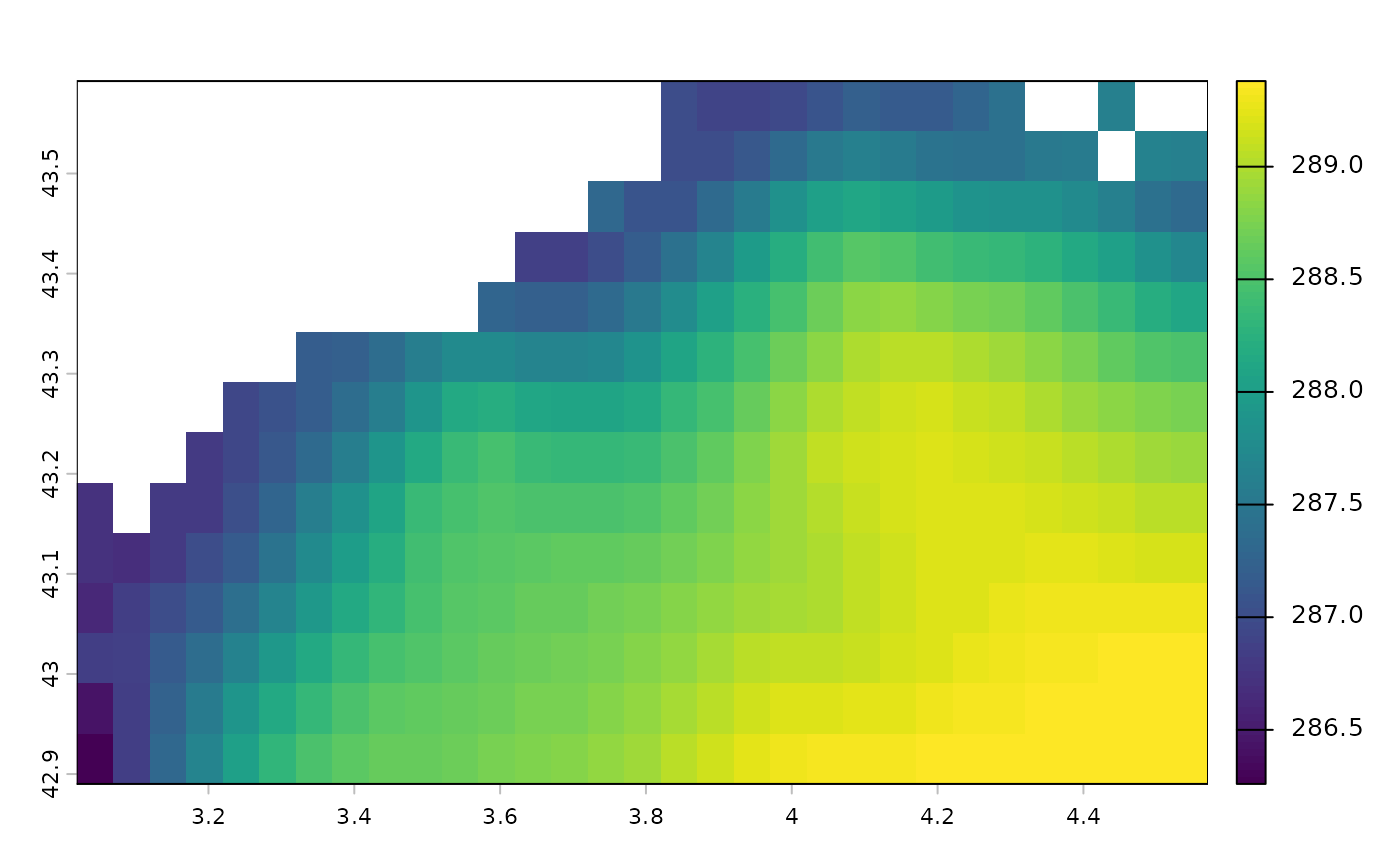
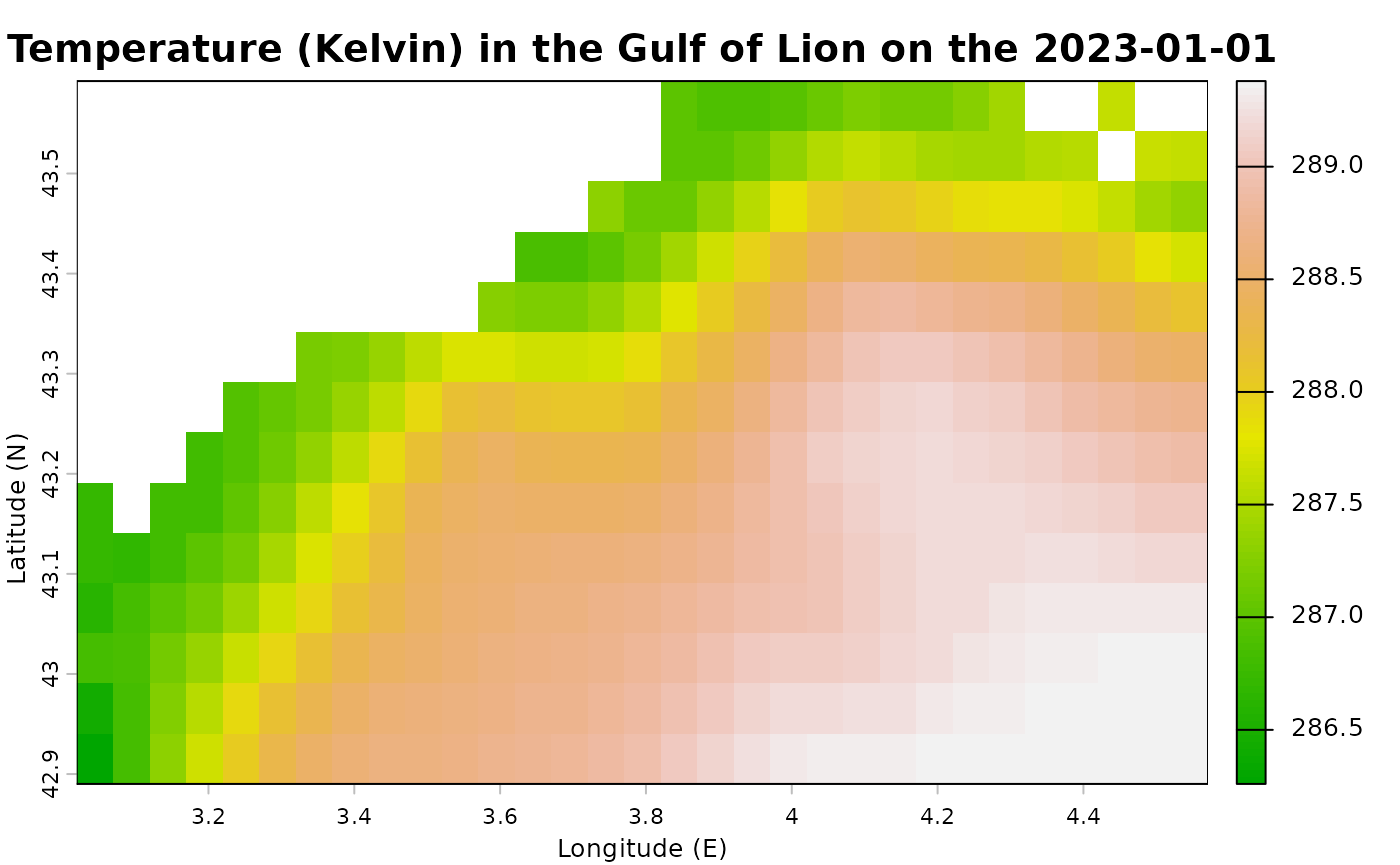
Deploying to gh-pages from @ VicoDelannoy/BioExtremeEvent@182a7990de686b9425400171948f6dde395eee5c 🚀

diff --git a/articles/data_load_corpernicus.html b/articles/data_load_corpernicus.html
@@ -92,25 +92,38 @@ Delannoy, Nicolas Loiseau, Sébastien Villéger</h4>
     
     
 <div class="section level2">
-<h2 id="aims-of-the-function-bee-data-load_copernicus">Aims of the function BEE.data.load_copernicus()<a class="anchor" aria-label="anchor" href="#aims-of-the-function-bee-data-load_copernicus"></a>
+<h2 id="aims-of-the-function-bee-data-load_copernicus">Aims of the function <em>BEE.data.load_copernicus()</em><a class="anchor" aria-label="anchor" href="#aims-of-the-function-bee-data-load_copernicus"></a>
 </h2>
-<p>This is an <strong>optional function</strong> to import data from <a href="https://data.marine.copernicus.eu/products" class="external-link">Copernicus Marine Data
-Store</a> some dataset. This function uses the CopernicusMarine function
-in Python. To be able to run it in R a virtual Python environment is
-automaticlay created. If Python is not already on your computer, the
-BEE.data.load_copernicus will download it for you. This allows you to
-copy and paste the Python API generated in the copernicus website (Data
-access&gt;select your data and ONLY one variable&gt; Automate&gt; Python
-API) almost directly as argument of the
-BioExtremeEvent::BEE.data.load_copernicus() function.
-copernicus-sst-example.nc # Usage To fullfill the argument of the
-BioExtremeEvent::BEE.data.load_copernicus() you just need to copy and
-paste what is inside the copernicusmarine.subset funciton brakets from
-the Pyhton API in the BioExtremeEvent and add three arguments : -
-<em>username</em>: wich is your username from the Copernicus Marine Data
-Store. - <em>password</em>: your Copernicus Marine Data Store passeword.
-- <em>output_directory</em>: The path where you want to store your
-dataset.</p>
+<p>This is an <strong>optional function</strong> to import data from the
+<a href="https://data.marine.copernicus.eu/products" class="external-link">Copernicus Marine
+Data Store</a> some dataset. This<br>
+function uses the CopernicusMarine Python library. A virtual Python
+environment is automatically created to enable it to run in R. If Python
+is not already installed on your computer,
+<em>BEE.data.load_copernicus</em> will download it for you.<br>
+This allows you to copy and paste the Python API generated in the
+copernicus website (Data access&gt;select your data and ONLY one
+variable&gt; Automate&gt; Python API) almost directly as argument of the
+BioExtremeEvent::BEE.data.load_copernicus() function.</p>
+</div>
+<div class="section level2">
+<h2 id="usage">Usage<a class="anchor" aria-label="anchor" href="#usage"></a>
+</h2>
+<p>To fulfil the argument of the
+BioExtremeEvent::BEE.data.load_copernicus() function, you just need to
+copy and paste the contents of the copernicusmarine.subset function,
+which is visible in the Python API, into the BioExtremeEvent function.
+1. To access the API code, go on the Copernicus Marine Data Store page
+of the selected products &gt; Data access &gt; in the colonne ‘Subset’
+clic on ‘Form’ &gt; select only one variable &gt; select your area of
+interest and your date range &gt; on the top of the webpage clic on
+Automate &gt; copy/paste whats inside the brakets of the
+copernicusmarine.subset() function. 2. Then, add three arguments in
+<em>BEE.data.load_copernicus()</em> : - <em>username</em>: wich is your
+username from the Copernicus Marine Data Store. - <em>password</em>:
+your Copernicus Marine Data Store passeword. -
+<em>output_directory</em>: The path where you want to store your
+dataset. You can now run the function.</p>
 <div class="sourceCode" id="cb1"><pre class="downlit sourceCode r">
 <code class="sourceCode R"><span><span class="fu">BioExtremeEvent</span><span class="fu">::</span><span class="fu"><a href="../reference/BEE.data.load_copernicus.html">BEE.data.load_copernicus</a></span><span class="op">(</span></span>
 <span>    username <span class="op">=</span> <span class="va">my_user_name</span>, <span class="co"># In addition of the API copy&amp;paste</span></span>
@@ -129,19 +142,28 @@ dataset.</p>
 <span>    disable_progress_bar <span class="op">=</span> <span class="cn">TRUE</span>,</span>
 <span>    output_directory <span class="op">=</span> <span class="fu">here</span><span class="fu">::</span><span class="fu"><a href="https://here.r-lib.org/reference/here.html" class="external-link">here</a></span><span class="op">(</span><span class="st">"Data"</span><span class="op">)</span> <span class="co"># In addition of the API copy&amp;paste</span></span>
 <span><span class="op">)</span></span></code></pre></div>
-<p>You obtained a spatraster with one layer per time step.</p>
+<p>You obtained a spatraster with one layer per time step in your R
+environment, the same dataset is saved in your computer at the location
+indicated by <em>output_directory</em>.</p>
 </div>
 <div class="section level2">
 <h2 id="exemple-of-the-dataset-obtained">Exemple of the dataset obtained<a class="anchor" aria-label="anchor" href="#exemple-of-the-dataset-obtained"></a>
 </h2>
 <div class="sourceCode" id="cb2"><pre class="downlit sourceCode r">
-<code class="sourceCode R"><span><span class="va">file_name</span> <span class="op">&lt;-</span> <span class="fu"><a href="https://rdrr.io/r/base/system.file.html" class="external-link">system.file</a></span><span class="op">(</span><span class="fu"><a href="https://rdrr.io/r/base/file.path.html" class="external-link">file.path</a></span><span class="op">(</span><span class="st">"extdata"</span>, <span class="st">"copernicus_example_data.nc"</span><span class="op">)</span>, package <span class="op">=</span> <span class="st">"BioExtremeEvent"</span><span class="op">)</span></span>
+<code class="sourceCode R"><span><span class="co"># Load the exemple dataset in R environement :</span></span>
+<span><span class="va">file_name</span> <span class="op">&lt;-</span> <span class="fu"><a href="https://rdrr.io/r/base/system.file.html" class="external-link">system.file</a></span><span class="op">(</span><span class="fu"><a href="https://rdrr.io/r/base/file.path.html" class="external-link">file.path</a></span><span class="op">(</span><span class="st">"extdata"</span>, <span class="st">"copernicus_example_data.nc"</span><span class="op">)</span>, package <span class="op">=</span> <span class="st">"BioExtremeEvent"</span><span class="op">)</span></span>
 <span><span class="va">copernicus_data</span> <span class="op">&lt;-</span> <span class="fu">terra</span><span class="fu">::</span><span class="fu"><a href="https://rspatial.github.io/terra/reference/rast.html" class="external-link">rast</a></span><span class="op">(</span><span class="va">file_name</span><span class="op">)</span></span>
 <span></span>
-<span><span class="fu">terra</span><span class="fu">::</span><span class="fu"><a href="https://rspatial.github.io/terra/reference/plot.html" class="external-link">plot</a></span><span class="op">(</span><span class="va">copernicus_data</span><span class="op">[[</span><span class="fl">1</span><span class="op">]</span><span class="op">]</span><span class="op">)</span> <span class="co"># Sea surface temperature the fisrt day of the</span></span></code></pre></div>
+<span><span class="co"># Plot first layer (Sea surface temperature the first day of the dataset) :</span></span>
+<span><span class="fu">terra</span><span class="fu">::</span><span class="fu"><a href="https://rspatial.github.io/terra/reference/plot.html" class="external-link">plot</a></span><span class="op">(</span></span>
+<span>  <span class="va">copernicus_data</span><span class="op">[[</span><span class="fl">1</span><span class="op">]</span><span class="op">]</span>,</span>
+<span>  main <span class="op">=</span> <span class="fu"><a href="https://rdrr.io/r/base/paste.html" class="external-link">paste</a></span><span class="op">(</span><span class="st">"Temperature (Kelvin) in the Gulf of Lion on the"</span>, <span class="fu">terra</span><span class="fu">::</span><span class="fu"><a href="https://rspatial.github.io/terra/reference/time.html" class="external-link">time</a></span><span class="op">(</span><span class="va">copernicus_data</span><span class="op">[[</span><span class="fl">1</span><span class="op">]</span><span class="op">]</span><span class="op">)</span> <span class="op">)</span>,</span>
+<span>  xlab <span class="op">=</span> <span class="st">"Longitude (E)"</span>,  </span>
+<span>  ylab <span class="op">=</span> <span class="st">"Latitude (N)"</span>,  </span>
+<span>  col <span class="op">=</span> <span class="fu"><a href="https://rdrr.io/r/grDevices/palettes.html" class="external-link">terrain.colors</a></span><span class="op">(</span><span class="fl">100</span><span class="op">)</span>,  </span>
+<span>  legend <span class="op">=</span> <span class="cn">TRUE</span></span>
+<span><span class="op">)</span></span></code></pre></div>
 <p><img src="data_load_corpernicus_files/figure-html/unnamed-chunk-2-1.png" class="r-plt" alt="" width="700"></p>
-<div class="sourceCode" id="cb3"><pre class="downlit sourceCode r">
-<code class="sourceCode R"><span><span class="co"># dataset</span></span></code></pre></div>
 </div>
   </div>
 

diff --git a/reference/BEE.data.load_copernicus.html b/reference/BEE.data.load_copernicus.html
@@ -169,8 +169,11 @@ goes to the "Data" file next to your script if there is one.</p></dd>
 </dl></div>
     <div id="value">
     <h2>Value</h2>
-    <p>A SpatRaster within the timeframe provided and the spatial frame
-given.</p>
+    <p>A SpatRaster subset from the
+Copernicus Marine Data Store](https://data.marine.copernicus.eu/products)
+according to the provided timeframe and spatial frame. The dataset will also
+be saved to your computer (see the 'output_directory' argument) into an .nc
+file.</p>
     </div>
     <div id="details">
     <h2>Details</h2>
@@ -182,6 +185,33 @@ Data access : Form : Automate : Pyhton API and use them as this function
 arguments.</p>
     </div>
 
+    <div id="ref-examples">
+    <h2>Examples</h2>
+    <div class="sourceCode"><pre class="sourceCode r"><code><span class="r-in"><span><span class="kw">if</span> <span class="op">(</span><span class="cn">FALSE</span><span class="op">)</span> <span class="op">{</span> <span class="co"># \dontrun{</span></span></span>
+<span class="r-in"><span><span class="co"># Non interactive exemple because this function requieres personnal </span></span></span>
+<span class="r-in"><span><span class="co"># Copernicus logging informations. To test this function you can create the</span></span></span>
+<span class="r-in"><span><span class="co"># variables my_username and my_password in your environment and copy/paste</span></span></span>
+<span class="r-in"><span><span class="co"># the code bellow.</span></span></span>
+<span class="r-in"><span><span class="va">data</span> <span class="op">&lt;-</span> <span class="fu">BEE.data.load_copernicus</span><span class="op">(</span></span></span>
+<span class="r-in"><span>username<span class="op">=</span><span class="va">my_username</span>, </span></span>
+<span class="r-in"><span>password<span class="op">=</span><span class="va">my_password</span>,</span></span>
+<span class="r-in"><span>dataset_id<span class="op">=</span><span class="st">"cmems_SST_MED_SST_L4_REP_OBSERVATIONS_010_021"</span>,</span></span>
+<span class="r-in"><span>dataset_version<span class="op">=</span><span class="st">"202411"</span>,</span></span>
+<span class="r-in"><span>variables<span class="op">=</span><span class="st">"analysed_sst"</span>,</span></span>
+<span class="r-in"><span>minimum_longitude<span class="op">=</span><span class="fl">2.9</span>,</span></span>
+<span class="r-in"><span>maximum_longitude<span class="op">=</span><span class="fl">7.8</span>,</span></span>
+<span class="r-in"><span>minimum_latitude<span class="op">=</span><span class="fl">42</span>,</span></span>
+<span class="r-in"><span>maximum_latitude<span class="op">=</span><span class="fl">43.7</span>,</span></span>
+<span class="r-in"><span>start_datetime<span class="op">=</span><span class="st">"1982-01-01T00:00:00"</span>,</span></span>
+<span class="r-in"><span>end_datetime<span class="op">=</span><span class="st">"2024-12-31T00:00:00"</span>,</span></span>
+<span class="r-in"><span>coordinates_selection_method<span class="op">=</span><span class="st">"strict-inside"</span>,</span></span>
+<span class="r-in"><span>disable_progress_bar<span class="op">=</span><span class="cn">TRUE</span>,</span></span>
+<span class="r-in"><span>output_directory <span class="op">=</span> <span class="fu">here</span><span class="fu">::</span><span class="fu"><a href="https://here.r-lib.org/reference/here.html" class="external-link">here</a></span><span class="op">(</span><span class="st">"Data"</span><span class="op">)</span></span></span>
+<span class="r-in"><span><span class="op">)</span></span></span>
+<span class="r-in"><span><span class="op">}</span> <span class="co"># }</span></span></span>
+<span class="r-in"><span></span></span>
+</code></pre></div>
+    </div>
   </div>
   <div class="col-md-3 hidden-xs hidden-sm" id="pkgdown-sidebar">
     <nav id="toc" data-toggle="toc" class="sticky-top"><h2 data-toc-skip>Contents</h2>
